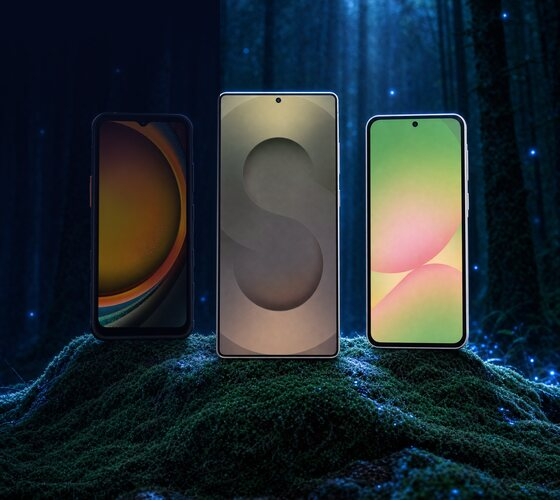
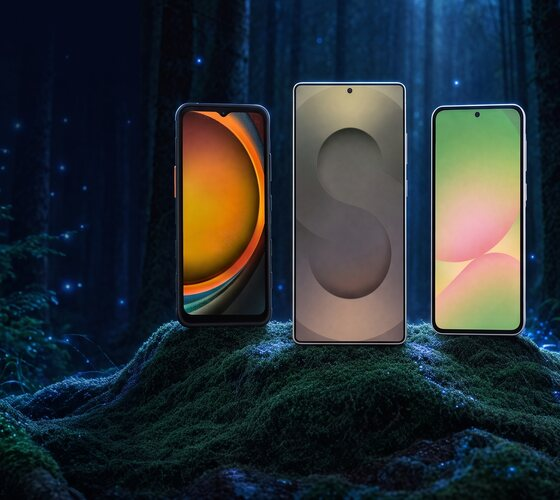
Newsletter Brother: baner Samsung dosztukowany w lewo, gradient poza telefonami
Claude-Session: https://claude.ai/code/session_01X57qBmLgKtKjRLyAyXaXJd

diff --git a/public/newsletter/editions/2026-09-08-brother-wielofunkcyjne.html b/public/newsletter/editions/2026-09-08-brother-wielofunkcyjne.html
@@ -423,7 +423,7 @@
                     </a>
                   </td>
                   <td width="280" bgcolor="#04091c" align="right" valign="middle" style="background-color:#04091c;">
-                    <a href="https://www.rejestratory.info/kategoria/telefony?utm_source=newsletter&utm_medium=email&utm_campaign=brother-mfp-2026-09-08" style="text-decoration:none;"><img src="https://www.rejestratory.info/newsletter/samsung-banner.jpg?v=5" alt="Smartfony Samsung Galaxy w lesie" width="280" style="width:280px;max-width:280px;height:auto;border:0;display:block;"></a>
+                    <a href="https://www.rejestratory.info/kategoria/telefony?utm_source=newsletter&utm_medium=email&utm_campaign=brother-mfp-2026-09-08" style="text-decoration:none;"><img src="https://www.rejestratory.info/newsletter/samsung-banner.jpg?v=6" alt="Smartfony Samsung Galaxy w lesie" width="280" style="width:280px;max-width:280px;height:auto;border:0;display:block;"></a>
                   </td>
                 </tr>
               </table>

diff --git a/PROGRESS.md b/PROGRESS.md
@@ -12,7 +12,7 @@ Jakub przesunął kolejkę: po Apple (bulk poszedł dziś 8:30) idzie kategoria 
 
 **Druga runda uwag (02.09, wieczór).** Z ciemnego bloku tytułowego wyleciał podtytuł „Pięć modeli w ofercie ZUP Łódź: mono od…”, a w bloku ceny podpis skrócony do „zakup przez Zakład Usługowo-Produkcyjny LP w Łodzi”. **Trzy nowe adresy w bazie odbiorców**: `handlowy@takma.com.pl`, `anita.lis@lodz.lasy.gov.pl`, `ewa.sasiak@lodz.lasy.gov.pl` — w nowym `newsletter/odbiorcy-dodatkowi.json`, scalanym w `lib/newsletter.ts` (pipeline) i w `scripts/send-newsletter.mjs` (ręcznie); `--list` pokazuje 605 odbiorców (było 602). Termin wysyłki Jakub dopiero ustali — manifest na razie zostaje na 08.09 8:30.
 
-**Baner na dole: Samsung zamiast EM45** (uwaga Jakuba po drugiej próbce). Nowy `samsung-banner.jpg` (560 × 500) z gpt_image_2 z trzema referencjami 1:1 z `public/` — S25 Ultra z przodu, XCover 7 i A56 za nim, na mchu w nocnym lesie, światło w niebieskiej kolorystyce Samsunga (#1428A0) zamiast limonki; z dwóch wariantów wzięty ten, w którym telefony stoją w mchu, a nie wiszą nad nim. Logo: `samsung-logo-white.png` z simpleicons (curl `cdn.simpleicons.org/samsung/ffffff` → sharp → `-trim`), 15 px nad kickerem. Tło banera `#04091c`, akcenty `#7fa6ff`, tekst z opisów kategorii telefonów: XCover 7 IP68 i wymienna bateria, S25 Ultra S Pen i 200 Mpx; link na `/kategoria/telefony`. Po próbce Jakub: za dużo tekstu (nie wymieniać modeli, skoro jest link) i telefony słabo widoczne, nierówno. Druga wersja: tekst skrócony do „Smartfony / Galaxy dla nadleśnictw / Od wzmocnionego XCover 7 po S25 Ultra.”, grafika wygenerowana od nowa z promptem o równym rzędzie (ta sama wysokość, równe odstępy, na wprost, 85% wysokości kadru, jasne studyjne światło, rozmyte tło) — `?v=2` w ścieżce. Trzecia runda: Jakub — „logo Samsung wyżej” i „ta grafika to jak w Paincie, poprzednia była super, popraw tylko położenie telefonów”. Logo poszło do osobnego wiersza zagnieżdżonej tabeli (`valign="top"`, komórka 250 px), tekst wyśrodkowany w drugim wierszu. Grafika: **edycja pierwszej sceny** — poprzedni obraz banera wgrany jako pierwsza referencja obok trzech renderów, prompt „keep the scene exactly, change only the arrangement of the phones: one evenly spaced row, same angle, bottoms aligned, none hidden”. Zadziałało co do joty: ten sam las, mech i światło, telefony w równym rzędzie. `?v=3`. Wniosek: gdy scena jest dobra, a układ nie — podawać gotowy obraz jako referencję i edytować, zamiast generować od zera. Czwarta runda: blok tekstu podniesiony (drugi wiersz `valign="top"`, odstęp 22 px pod logo zamiast centrowania, które w Gmailu spychało tekst w dół) i **przejście tło → grafika**: lewe 130 px obrazu wtopione w `#04091c` gradientem (`gradient:` + `-compose over`), żeby krawędź kolumny nie wyglądała na uciętą; `?v=4`. Jakub: „brak zmian” — Gmail rozdał nadmiarową wysokość zagnieżdżonej tabeli na wiersz z logo i tekst dalej siedział nisko. Piąta wersja: **bez zagnieżdżonej tabeli**, logo i tekst w jednej komórce `valign="top"`, logo z `margin-bottom:24px`; gradient poszerzony ze 130 do 220 px; `?v=5`. Wniosek: w mailu nie centrować pionowo przez `height` tabeli z kilkoma wierszami — Gmail rozciąga wiersze po swojemu.
+**Baner na dole: Samsung zamiast EM45** (uwaga Jakuba po drugiej próbce). Nowy `samsung-banner.jpg` (560 × 500) z gpt_image_2 z trzema referencjami 1:1 z `public/` — S25 Ultra z przodu, XCover 7 i A56 za nim, na mchu w nocnym lesie, światło w niebieskiej kolorystyce Samsunga (#1428A0) zamiast limonki; z dwóch wariantów wzięty ten, w którym telefony stoją w mchu, a nie wiszą nad nim. Logo: `samsung-logo-white.png` z simpleicons (curl `cdn.simpleicons.org/samsung/ffffff` → sharp → `-trim`), 15 px nad kickerem. Tło banera `#04091c`, akcenty `#7fa6ff`, tekst z opisów kategorii telefonów: XCover 7 IP68 i wymienna bateria, S25 Ultra S Pen i 200 Mpx; link na `/kategoria/telefony`. Po próbce Jakub: za dużo tekstu (nie wymieniać modeli, skoro jest link) i telefony słabo widoczne, nierówno. Druga wersja: tekst skrócony do „Smartfony / Galaxy dla nadleśnictw / Od wzmocnionego XCover 7 po S25 Ultra.”, grafika wygenerowana od nowa z promptem o równym rzędzie (ta sama wysokość, równe odstępy, na wprost, 85% wysokości kadru, jasne studyjne światło, rozmyte tło) — `?v=2` w ścieżce. Trzecia runda: Jakub — „logo Samsung wyżej” i „ta grafika to jak w Paincie, poprzednia była super, popraw tylko położenie telefonów”. Logo poszło do osobnego wiersza zagnieżdżonej tabeli (`valign="top"`, komórka 250 px), tekst wyśrodkowany w drugim wierszu. Grafika: **edycja pierwszej sceny** — poprzedni obraz banera wgrany jako pierwsza referencja obok trzech renderów, prompt „keep the scene exactly, change only the arrangement of the phones: one evenly spaced row, same angle, bottoms aligned, none hidden”. Zadziałało co do joty: ten sam las, mech i światło, telefony w równym rzędzie. `?v=3`. Wniosek: gdy scena jest dobra, a układ nie — podawać gotowy obraz jako referencję i edytować, zamiast generować od zera. Czwarta runda: blok tekstu podniesiony (drugi wiersz `valign="top"`, odstęp 22 px pod logo zamiast centrowania, które w Gmailu spychało tekst w dół) i **przejście tło → grafika**: lewe 130 px obrazu wtopione w `#04091c` gradientem (`gradient:` + `-compose over`), żeby krawędź kolumny nie wyglądała na uciętą; `?v=4`. Jakub: „brak zmian” — Gmail rozdał nadmiarową wysokość zagnieżdżonej tabeli na wiersz z logo i tekst dalej siedział nisko. Piąta wersja: **bez zagnieżdżonej tabeli**, logo i tekst w jednej komórce `valign="top"`, logo z `margin-bottom:24px`; gradient poszerzony ze 130 do 220 px; `?v=5`. Wniosek: w mailu nie centrować pionowo przez `height` tabeli z kilkoma wierszami — Gmail rozciąga wiersze po swojemu. Szósta wersja, bo gradient na kadrze z telefonami do samej krawędzi zaciemniał XCover („zmień sposób”): scena **dosztukowana w lewo** narzędziem `outpaint_image` Higgsfielda (job z równym rzędem → 16:9, 2752 × 1536), kadr `1720x1536+215+0` tak, że lewe ~220 px banera to sam las bez telefonów, a gradient 170 px kończy się przed pierwszym telefonem; `?v=6`.
 
 **Poprawki po testówce (02.09, 17:53).** Pas u góry tylko „administratorowi SILP”; zdjęcie wiodące 260 → 182 px (o 30% mniejsze); lead uporządkowany („trzy monochromatyczne i dwa kolorowe”), bez zdania o TAKMA; w bloku ceny zamiast trzech kolumn dwie: „dostawa i serwis gwarancyjny TAKMA” (bez dwukropka) i „w ofercie również tonery oraz bębny” — Jakub odrzucił „tonery w tej samej ofercie ZUP” jako zły język, a notę o VAT jako zbędną.
 
